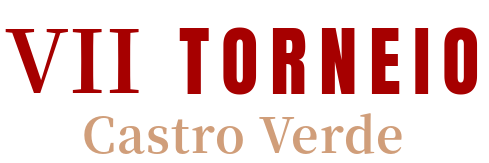
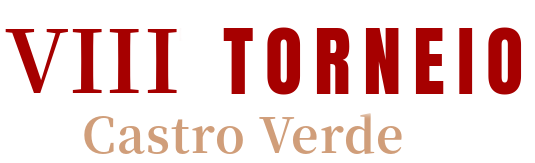
fix add: change event to 2024

diff --git a/src/scenes/regulamentos/index.tsx b/src/scenes/regulamentos/index.tsx
@@ -13,7 +13,7 @@ const regulamentos: Array<RegulamentoType> = [
     icon: <CalendarDaysIcon className="h-6 w-6" />,
     title: "Data e Hora do evento ",
     description:
-      "Dia 06 de Maio de 2023, Início às 09 horas",
+      "Dia 11 de Maio de 2024, Início às 09 horas",
   },
   {
     icon: <HomeModernIcon className="h-6 w-6" />,
@@ -25,7 +25,7 @@ const regulamentos: Array<RegulamentoType> = [
     icon: <AcademicCapIcon className="h-6 w-6" />,
     title: "Inscrições",
     description:
-      "As inscrições para o torneio terão que ser realizadas através dos link da pagina Home.",
+      `As inscrições devem ser realizadas através dos link da pagina Home.`,
   },
 ];
 
@@ -128,16 +128,16 @@ const Regulamentos = ({ setSelectedPage }: Props) => {
               }}
             >
               <p className="my-5">
-                Data limite de inscrição no torneio: <p><strong> Até às 23h 59m do dia 25 de Abril de 2023</strong>.</p>
+                Data limite de inscrição no torneio: <p><strong> Até às 23h 59m do dia 25 de Abril de 2024</strong>.</p>
               </p>
               <p className="my-5">
-                Data da publicação das listas provisórias: <p><strong>Até às 23h 59m do dia 16 de  Abril de 2023.</strong></p>
+                Data da publicação das listas provisórias: <p><strong>Até às 23h 59m do dia 16 de  Abril de 2024.</strong></p>
               </p>
               <p className="my-5">
-                Data limite de edição de inscrições pelo atleta: <p><strong>Até às 23h 59m do dia 25 de  Abril de 2023.</strong></p>
+                Data limite de edição de inscrições pelo atleta: <p><strong>Até às 23h 59m do dia 25 de  Abril de 2024.</strong></p>
               </p>
               <p className="my-5">
-                Data de publicação das chaves: <p><strong>Até às 23h 59m do dia 03 de Maio de 2023.</strong></p>
+                Data de publicação das chaves: <p><strong>Até às 23h 59m do dia 03 de Maio de 2024.</strong></p>
               </p>
               <p className="my-5">
                 <strong >ATENÇÃO: Não serão permitidas quaisquer alterações às <br />listas após a  publicação das chaves do torneio.</strong>
@@ -179,11 +179,11 @@ const Regulamentos = ({ setSelectedPage }: Props) => {
                 <strong>. 3° classificado</strong> Medalha
               </p>
               <p className="my-5">
-                <strong>**</strong> Para a atribuição do prémio <strong>Inscrição Campeonato Europeu 2023</strong> é necessário haver no
+                <strong>**</strong> Para a atribuição do prémio <strong>Inscrição Campeonato Europeu 2024</strong> é necessário haver no
                 mínimo <strong>10</strong> atletas na chave.  Se na chave houver entre <strong>4</strong> a <strong>9</strong> atletas será atribuído como prémio um kimono.
               </p>
               <p className="my-5">
-                <strong>**</strong> Para a atribuição do prémio <strong>Inscrição Campeonato Europeu 2023</strong><strong> será transferido o valor da inscrição para o atleta.</strong>
+                <strong>**</strong> Para a atribuição do prémio <strong>Inscrição Campeonato Europeu 2024</strong><strong> será transferido o valor da inscrição para o atleta.</strong>
               </p>
 
               <HText>
@@ -191,7 +191,7 @@ const Regulamentos = ({ setSelectedPage }: Props) => {
               </HText>
 
               <p className="my-5">
-                Preço da inscrição no torneio até ao final do dia 23 de Abril de 2023:
+                Preço da inscrição no torneio até ao final do dia 23 de Abril de 2024:
               </p>
               <p className="my-5">
                 <strong>• €15</strong> para atletas com idade inferior aos 18 anos.
@@ -202,7 +202,7 @@ const Regulamentos = ({ setSelectedPage }: Props) => {
                 <p className="my-5"> <strong>Estes preços têm os seguintes acréscimos:</strong></p>
               </p>
               <p className="my-5">
-                • Acréscimos de <strong>€10</strong> para inscrições efectuadas depois do dia <strong>23 de Abril de 2023</strong> até à data limite de inscrição.
+                • Acréscimos de <strong>€10</strong> para inscrições efectuadas depois do dia <strong>23 de Abril de 2024</strong> até à data limite de inscrição.
               </p>
 
               <p>PAGAMENTO:</p>

diff --git a/src/scenes/home/index.tsx b/src/scenes/home/index.tsx
@@ -66,7 +66,7 @@ const Home = ({ setSelectedPage }: Props) => {
               </div>
             </div>
             <p className="mt-6 text-xl md:text-3xl text-red-800">
-              6 de Maio
+              11 de Maio
             </p>
           </motion.div>
 
@@ -83,8 +83,8 @@ const Home = ({ setSelectedPage }: Props) => {
               visible: { opacity: 1, x: 0 },
             }}
           >
-            {/* ----------------------botoes inscricoes googleForms Infatil----------------------
-            {/* <div style={{ display: "flex", flexDirection: "column", alignItems: "center", marginBottom: "20px" }}>
+            {/* ----------------------botoes inscricoes googleForms Infatil----------------------*/}
+             <div style={{ display: "flex", flexDirection: "column", alignItems: "center", marginBottom: "20px" }}>
               <p className="text-white text-xl">ADULTO/MASTER</p>
               <button
                 onClick={() => window.location.href = "https://docs.google.com/forms/d/e/1FAIpQLSdguq7WfhvHwmQE7D64yxXgVYzLsybSzid_sm93FtbjhjB2aw/viewform?usp=pp_url"}
@@ -92,11 +92,11 @@ const Home = ({ setSelectedPage }: Props) => {
               >
                 ACESSAR
               </button>
-              //* ----------------------botoes inscricoes googleForms Adultos----------------------
-            </div> */}
-                {/* ----------------------botoes inscricoes googleForms Infatil----------------------
+              {/*  ----------------------botoes inscricoes googleForms Adultos----------------------*/}
+            </div> 
+                {/* ----------------------botoes inscricoes googleForms Infatil----------------------*/}
                   
-                `
+          
             <div style={{ display: "flex", flexDirection: "column", alignItems: "center" }}>
               <p className="text-white text-xl">INFANTIL/JUVENIL</p>
               <button
@@ -106,17 +106,17 @@ const Home = ({ setSelectedPage }: Props) => {
 
                 ACESSAR
               </button>
-            </div> */}
+            </div>
 
 {/* /* ----------------------botoes inscricoes googleForms---------------------- */}
 
-            {/* <a
+             <a
               className="text-l font-bold text-primary-500 underline hover:text-secondary-500"
               href="https://docs.google.com/forms/d/e/1FAIpQLSd-ARZARAWPzvoml820o8B1t2_7iev0UbmCn_-uIP4qb273FQ/viewform?usp=pp_url"
               target="_blank"
             >
               <p>Regulamento/Premiação</p>
-            </a> */}
+            </a> 
             {/* /* ----------------------botoe chave Kids---------------------- */}
 
             {/* <div style={{ display: "flex", flexDirection: "column", alignItems: "center" }}>

diff --git a/src/App.tsx b/src/App.tsx
@@ -7,7 +7,7 @@ import Regulamentos from "@/scenes/regulamentos";
 import { SelectedPage } from "@/shared/types";
 import { useEffect, useState } from "react";
 import InfantList from "./scenes/InfantList";
-import Lutas from "./scenes/Lutas";
+// import Lutas from "./scenes/Lutas";
 
 function App() {
   const [selectedPage, setSelectedPage] = useState<SelectedPage>(
@@ -38,7 +38,7 @@ function App() {
       <Regulamentos setSelectedPage={setSelectedPage} />
       <AdultList setSelectedPage={setSelectedPage} />
       <InfantList setSelectedPage={setSelectedPage} />
-      <Lutas setSelectedPage={setSelectedPage} />
+      {/* <Lutas setSelectedPage={setSelectedPage} /> */}
       <Contacto setSelectedPage={setSelectedPage} />
       <Footer />
     </div>
